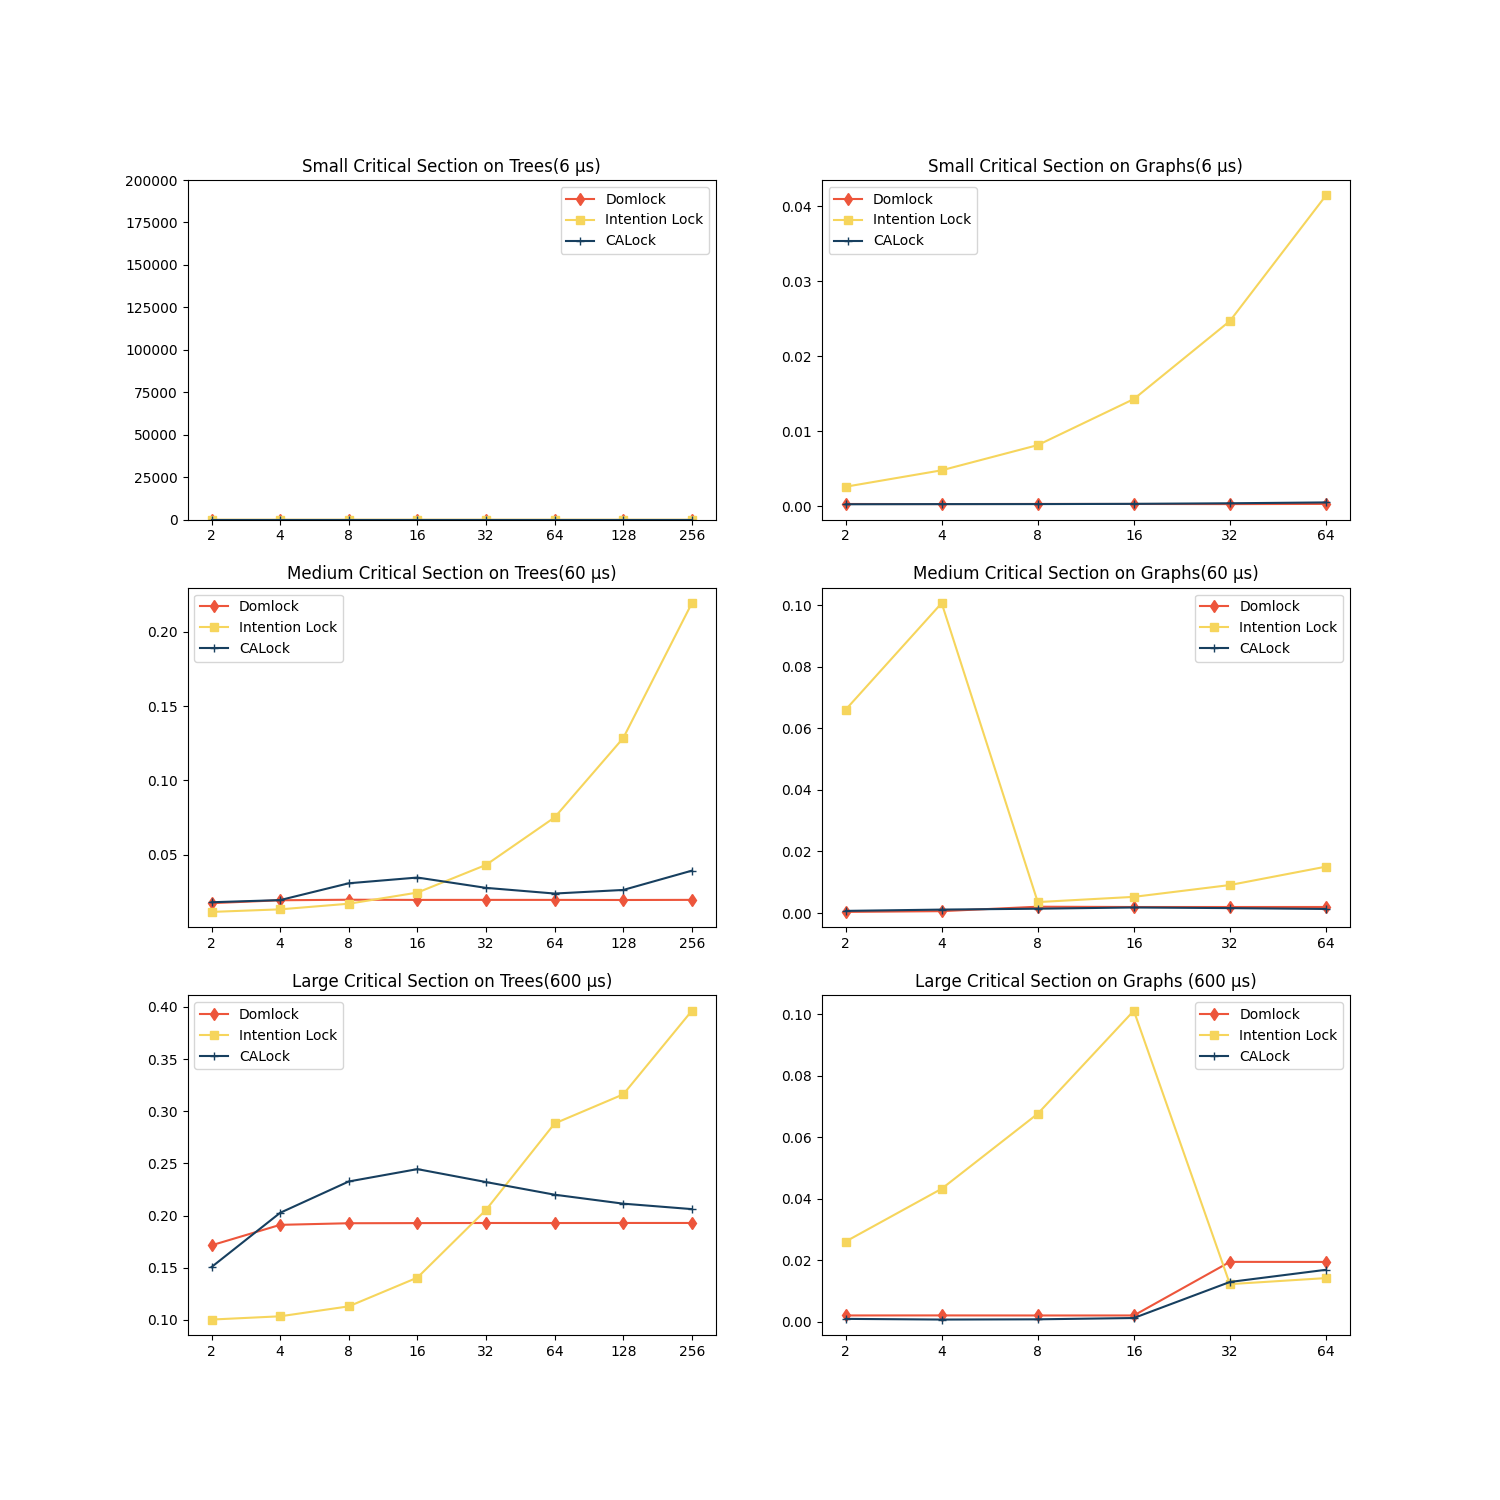
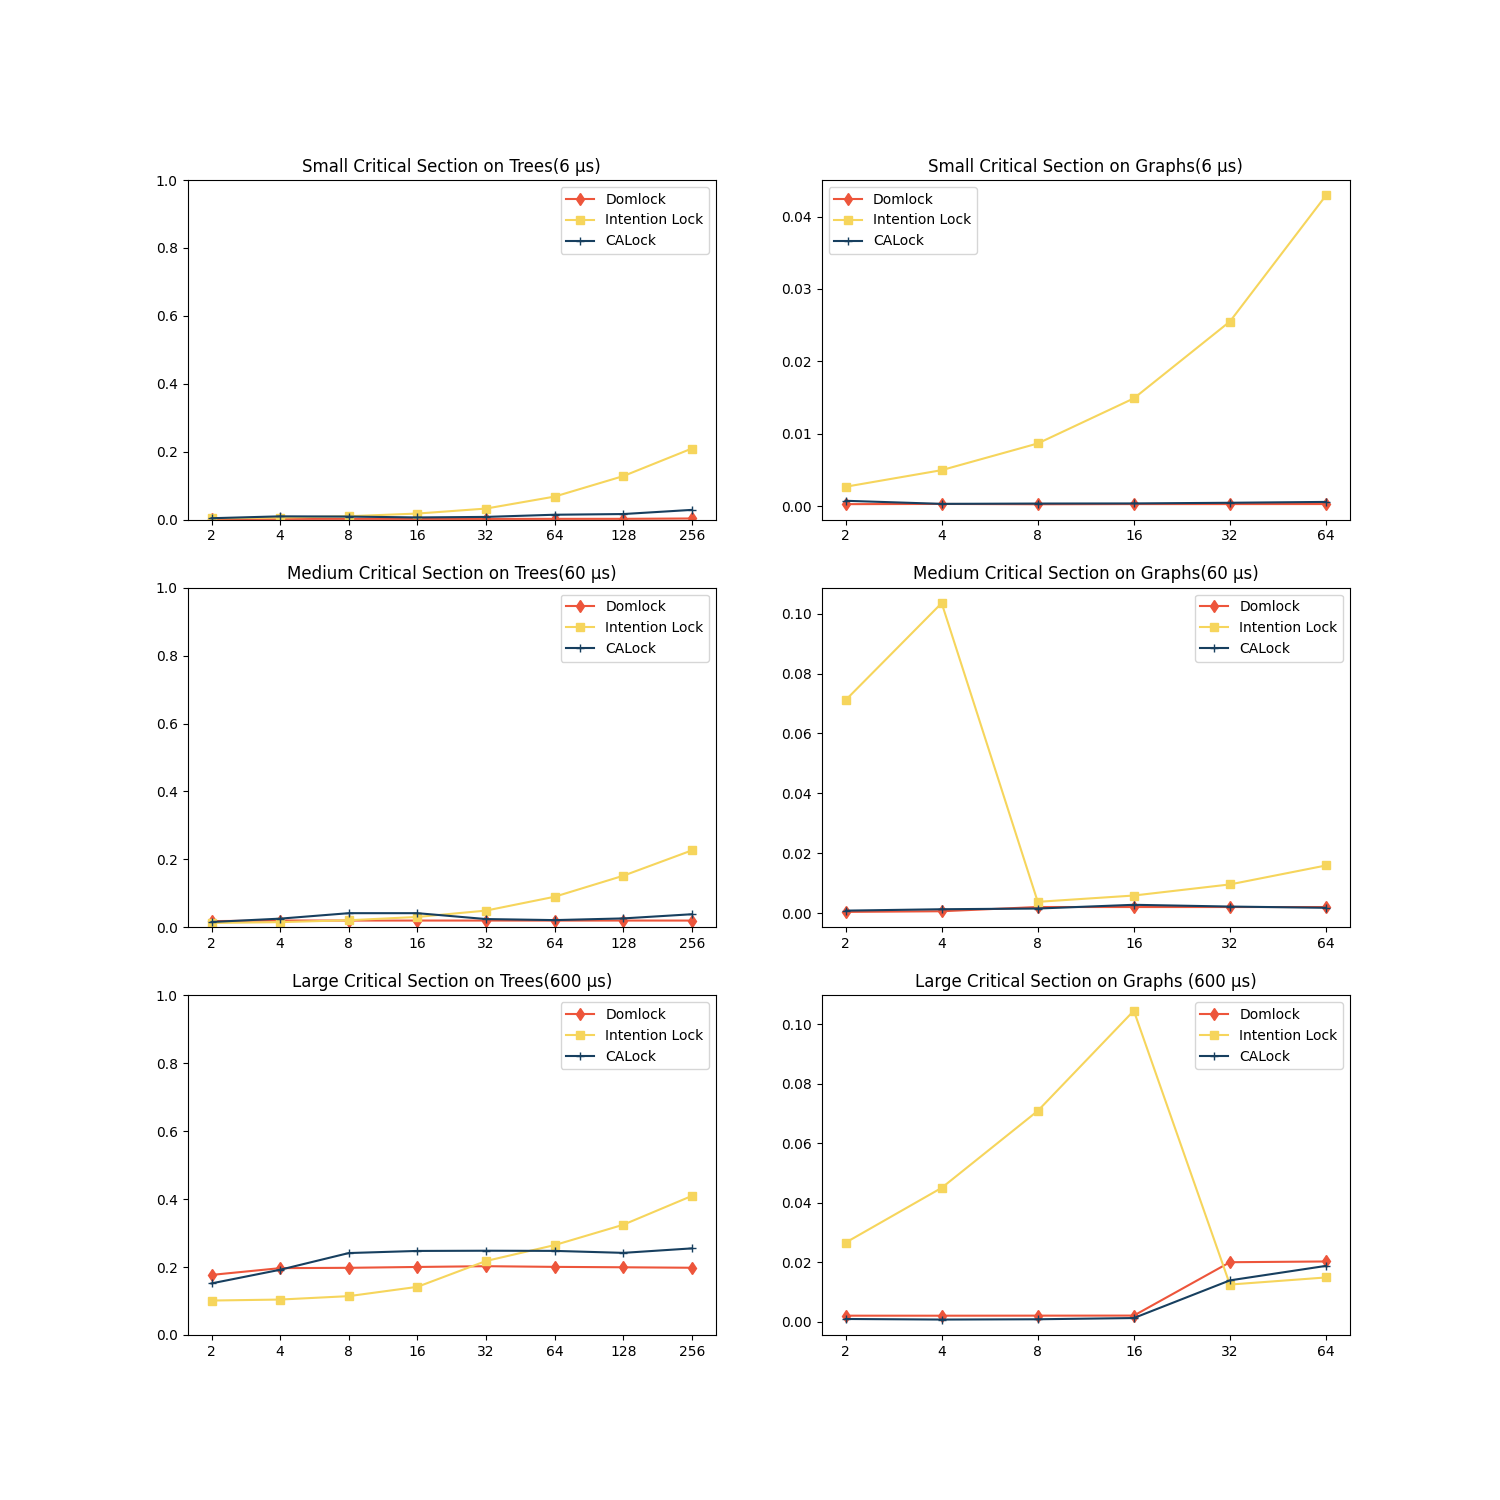
Add dominator finding to domlock

diff --git a/Performance Tests/src/dominatorHelper.h b/Performance Tests/src/dominatorHelper.h
@@ -1,0 +1,109 @@
+//
+// Created by Ayush Pandey on 09/01/2023.
+//
+
+#include "data_holder.h"
+#include "./struct/connection.h"
+
+//************************************************************************************************************************
+
+using namespace sb7;
+class dominatorHelper{
+public:
+    static pthread_rwlock_t *getDominatorLock(DataHolder* dh, long int *min, long int *max) {
+        cout<<"Find dominator called";
+        return Dom_traverse(dh->getModule()->getDesignRoot(), min, max);
+    }
+
+
+    static pthread_rwlock_t * Dom_traverse(ComplexAssembly *cassm, long int *min, long int *max) {
+
+
+
+        Set<Assembly *> *subAssm = cassm->getSubAssemblies();
+        SetIterator<Assembly *> iter = subAssm->getIter();
+        bool childrenAreBase = cassm->areChildrenBaseAssemblies();
+
+        // think about transforming this long into a nicer oo design
+        while(iter.has_next()) {
+            Assembly *assm = iter.next();
+            if(assm -> m_pre_number <= *min && assm -> m_post_number >= *max)
+            {
+
+                if(!childrenAreBase) {
+                    return Dom_traverse((ComplexAssembly *)assm,min , max);
+                } else {
+                    return Dom_traverse((BaseAssembly *)assm, min, max);
+                }
+
+            }
+        }
+
+        //cassm -> m_post_number = dfscounter++;
+
+        *min = cassm -> m_pre_number;
+        *max = cassm -> m_post_number;
+        return &(cassm -> NodeLock);
+    }
+
+    static pthread_rwlock_t * Dom_traverse(BaseAssembly *bassm, long int *min, long int *max) {
+
+
+        SetIterator<CompositePart *> iter = bassm->getComponents()->getIter();
+
+        while(iter.has_next()) {
+
+            CompositePart *cpart = iter.next();
+
+            if(cpart -> m_pre_number <= *min && cpart -> m_post_number >= *max)
+            {
+                return Dom_traverse(cpart, min, max);
+            }
+        }
+        //bassm -> m_post_number = dfscounter++;
+        *min = bassm -> m_pre_number;
+        *max = bassm -> m_post_number;
+        return &(bassm -> NodeLock);
+    }
+
+    static pthread_rwlock_t * Dom_traverse(CompositePart *cpart, long int *min, long int *max) {
+
+
+
+
+        AtomicPart *rootPart = cpart->getRootPart();
+        Set<AtomicPart *> visitedPartSet;
+        return Dom_traverse(rootPart, visitedPartSet, min, max);
+
+        //cpart -> m_post_number = dfscounter++;
+    }
+
+    static pthread_rwlock_t * Dom_traverse(AtomicPart *apart,
+                                                            Set<AtomicPart *> &visitedPartSet,long int *min, long int *max) {
+        long int ret;
+
+        if(apart == NULL) {
+
+            return &(apart -> NodeLock);
+        } else if(!visitedPartSet.contains(apart)) {
+
+
+            visitedPartSet.add(apart);
+
+            // visit all connected parts
+            Set<Connection *> *toConns = apart->getToConnections();
+            SetIterator<Connection *> iter = toConns->getIter();
+
+            while(iter.has_next()) {
+                Connection *conn = iter.next();
+                if((conn->getDestination())-> m_pre_number <= *min && (conn->getDestination()) -> m_post_number >= *max)
+                    return Dom_traverse(conn->getDestination(), visitedPartSet, min, max);
+            }
+        }
+        //apart -> m_post_number = dfscounter++;
+
+        *min = apart -> m_pre_number;
+        *max = apart -> m_post_number;
+        return &(apart -> NodeLock);
+    }
+};

diff --git a/Performance Tests/src/operations/locking_domLock/query_ops_dom.cpp b/Performance Tests/src/operations/locking_domLock/query_ops_dom.cpp
@@ -4,7 +4,7 @@
 #include "../../parameters.h"
 #include "../../interval.h"
 #include "../../sb7_exception.h"
-
+#include "../../dominatorHelper.h"
 extern IntervalCheck ICheck;
 
 ////////////
@@ -31,20 +31,26 @@ int sb7::DomQuery1::innerRun(int tid) const {
 
     if(query.found && query.val->m_pre_number!=0 && query.val->m_post_number!=0){
         if(string(name) == "Q1"){
+            pthread_rwlock_t  *lock = dominatorHelper::getDominatorLock(dataHolder, &(query.val->m_pre_number),&(query.val->m_post_number));
             auto *inv = new interval(query.val->m_pre_number,query.val->m_post_number,0);
             if(!ICheck.IsOverlap(inv, 0, threadID))
             {
+                pthread_rwlock_rdlock(lock);
                 performOperationOnAtomicPart(query.val);
                 count++;
+                pthread_rwlock_unlock(lock);
                 ICheck.Delete(threadID);
             }
         }
         else if(string(name) == "OP9" || string(name) == "OP15"){
+            pthread_rwlock_t  *lock = dominatorHelper::getDominatorLock(dataHolder, &(query.val->m_pre_number),&(query.val->m_post_number));
             auto *inv = new interval(query.val->m_pre_number,query.val->m_post_number,1);
             if(!ICheck.IsOverlap(inv, 1, threadID))
             {
+                pthread_rwlock_wrlock(lock);
                 performOperationOnAtomicPart(query.val);
                 count++;
+                pthread_rwlock_unlock(lock);
                 ICheck.Delete(threadID);
             }
         }
@@ -117,12 +123,20 @@ int sb7::DomQuery2::innerRun(int tid) const {
         if(string(name) == "OP10")
             mode = 1;
 
+        pthread_rwlock_t  *lock = dominatorHelper::getDominatorLock(dataHolder, &(min),&(max));
         auto *inv = new interval(min,max,mode);
         if(!ICheck.IsOverlap(inv, mode, tid)) {
+            if(mode==0){
+                pthread_rwlock_rdlock(lock);
+            } else {
+                pthread_rwlock_wrlock(lock);
+            }
+
             for(auto * apart: aparts){
                 performOperationOnAtomicPart(apart);
                 count++;
             }
+            pthread_rwlock_unlock(lock);
             ICheck.Delete(tid);
         }
 	}

diff --git a/Performance Tests/src/operations/locking_domLock/operation_ops_dom.cpp b/Performance Tests/src/operations/locking_domLock/operation_ops_dom.cpp
@@ -4,6 +4,7 @@
 #include "../../parameters.h"
 #include "../../sb7_exception.h"
 #include "../../interval.h"
+#include "../../dominatorHelper.h"
 extern IntervalCheck ICheck;
 
 ////////////////
@@ -47,8 +48,11 @@ int sb7::DomOperation6::innerRun(int tid) const {
 	// if this assembly is root perform operation on it
 	if(superAssm == NULL || superAssm->m_pre_number==0 || superAssm->m_post_number==0) {
         auto *inv = new interval(cassm->m_pre_number,cassm->m_post_number,0);
+        pthread_rwlock_t  *lock = dominatorHelper::getDominatorLock(dataHolder, &(cassm->m_pre_number),&(cassm->m_post_number));
         if(!ICheck.IsOverlap(inv, 0, tid)) {
+            pthread_rwlock_rdlock(lock);
             performOperationOnComplexAssembly(cassm);
+            pthread_rwlock_unlock(lock);
             ret = 1;
             ICheck.Delete(tid);
         }
@@ -59,11 +63,14 @@ int sb7::DomOperation6::innerRun(int tid) const {
 		SetIterator<Assembly *> iter = siblingAssms->getIter();
 		ret = 0;
         auto *inv = new interval(superAssm->m_pre_number,superAssm->m_post_number,0);
+        pthread_rwlock_t  *lock = dominatorHelper::getDominatorLock(dataHolder, &(superAssm->m_pre_number),&(superAssm->m_post_number));
         if(!ICheck.IsOverlap(inv, 0, tid)) {
+            pthread_rwlock_rdlock(lock);
             while(iter.has_next()) {
                 performOperationOnComplexAssembly((ComplexAssembly *)iter.next());
                 ret++;
             }
+            pthread_rwlock_unlock(lock);
             ICheck.Delete(tid);
         }
 	}
@@ -111,11 +118,14 @@ int sb7::DomOperation7::innerRun(int tid) const {
 	int ret = 0;
 
     auto *inv = new interval(superAssm->m_pre_number,superAssm->m_post_number,0);
+    pthread_rwlock_t  *lock = dominatorHelper::getDominatorLock(dataHolder, &(superAssm->m_pre_number),&(superAssm->m_post_number));
     if(!ICheck.IsOverlap(inv, 0, tid)) {
+        pthread_rwlock_rdlock(lock);
         while(iter.has_next()) {
             performOperationOnBaseAssembly((BaseAssembly *)iter.next());
             ret++;
         }
+        pthread_rwlock_unlock(lock);
         ICheck.Delete(tid);
     }
 

diff --git a/Performance Tests/src/operations/locking_domLock/structural_modification_ops_dom.cpp b/Performance Tests/src/operations/locking_domLock/structural_modification_ops_dom.cpp
@@ -5,7 +5,7 @@
 #include "../../thread/thread.h"
 #include "../../interval.h"
 #include "../../DomRelabelling.h"
-
+#include "../../dominatorHelper.h"
 extern IntervalCheck ICheck;
 
 /////////////////////////////
@@ -33,8 +33,11 @@ int sb7::DomStructuralModification2::run(int tid) const {
 		throw Sb7Exception();
 	}
     auto *inv = new interval(cpart->m_pre_number,cpart->m_post_number,1);
+    pthread_rwlock_t  *lock = dominatorHelper::getDominatorLock(dataHolder, &(cpart->m_pre_number),&(cpart->m_post_number));
     if(!ICheck.IsOverlap(inv, 1, tid)) {
+        pthread_rwlock_wrlock(lock);
         dataHolder->deleteCompositePart(cpart);
+        pthread_rwlock_unlock(lock);
         ICheck.Delete(tid);
     }
 	return 0;
@@ -69,11 +72,13 @@ int sb7::DomStructuralModification3::run(int tid) const {
         max = cpart-> m_post_number;
 
     auto *inv = new interval(min,max,1);
-
+    pthread_rwlock_t  *lock = dominatorHelper::getDominatorLock(dataHolder, &(min),&(max));
     if(!ICheck.IsOverlap(inv, 1, tid)) {
+        pthread_rwlock_wrlock(lock);
         bassm->addComponent(cpart);
         auto *r = new DomRelabelling(dataHolder);
         r->traverse(dataHolder->getModule()->getDesignRoot());
+        pthread_rwlock_unlock(lock);
         ICheck.Delete(tid);
     }
 	return 0;

diff --git a/StressTest/NodesLockedImage.py b/StressTest/NodesLockedImage.py
@@ -12,7 +12,6 @@ smallCSGraph = pd.read_csv('./dataForPlots/GraphSmallCS.csv')
 mediumCSGraph = pd.read_csv('./dataForPlots/GraphMediumCS.csv')
 largeCSGraph = pd.read_csv('./dataForPlots/GraphLargeCS.csv')
 
-skewness = pd.read_csv('./dataForPlots/Skewness.csv')
 
 dfST = pd.DataFrame(smallCSTree)
 dfMT = pd.DataFrame(mediumCSTree)
@@ -22,7 +21,6 @@ dfSG = pd.DataFrame(smallCSGraph)
 dfMG = pd.DataFrame(mediumCSGraph)
 dfLG = pd.DataFrame(largeCSGraph)
 
-dfskewness = pd.DataFrame(skewness)
 
 fig, ax = plt.subplots(3, 2, figsize=(15, 15))
 
@@ -79,16 +77,6 @@ ax[2, 1].set_xticks([0, 1, 2, 3, 4, 5], ['2', '4', '8', '16', '32', '64'])
 ax[2, 1].legend()
 
 plt.savefig('./Nodesused.png')
-
-# ax = plt.subplot(3,2,5, figsize=(15, 15))
-plt.plot(dfskewness['Domlock'], color='#ed553b', label='Domlock', marker='d')
-plt.plot(dfskewness['Intention Lock'], color='#f6d55c', label='Intention Lock', marker='s')
-plt.plot(dfskewness['CALock'], color='#173f5f', label='CALock', marker='+')
-plt.title('Skewness of vertex selection (Medium critical section 60 \u03BCs)')
-plt.xticks([0, 1, 2, 3, 4, 5, 6, 7], ['1', '2', '4', '8', '16', '32', '64', '128'])
-
-plt.legend()
-plt.savefig('./Skewness.png')
 #
 # barWidth = 0
 #

diff --git a/StressTest/skewnessImage.py b/StressTest/skewnessImage.py
@@ -1,0 +1,16 @@
+import matplotlib.pyplot as plt
+import pandas as pd
+
+skewness = pd.read_csv('./dataForPlots/Skewness.csv')
+
+dfskewness = pd.DataFrame(skewness)
+
+# ax = plt.subplot(3,2,5, figsize=(15, 15))
+plt.plot(dfskewness['Domlock'], color='#ed553b', label='Domlock', marker='d')
+plt.plot(dfskewness['Intention Lock'], color='#f6d55c', label='Intention Lock', marker='s')
+plt.plot(dfskewness['CALock'], color='#173f5f', label='CALock', marker='+')
+plt.title('Skewness of vertex selection (Medium critical section 60 \u03BCs)')
+plt.xticks([0, 1, 2, 3, 4, 5, 6, 7], ['1', '2', '4', '8', '16', '32', '64', '128'])
+
+plt.legend()
+plt.savefig('./Skewness.png')
